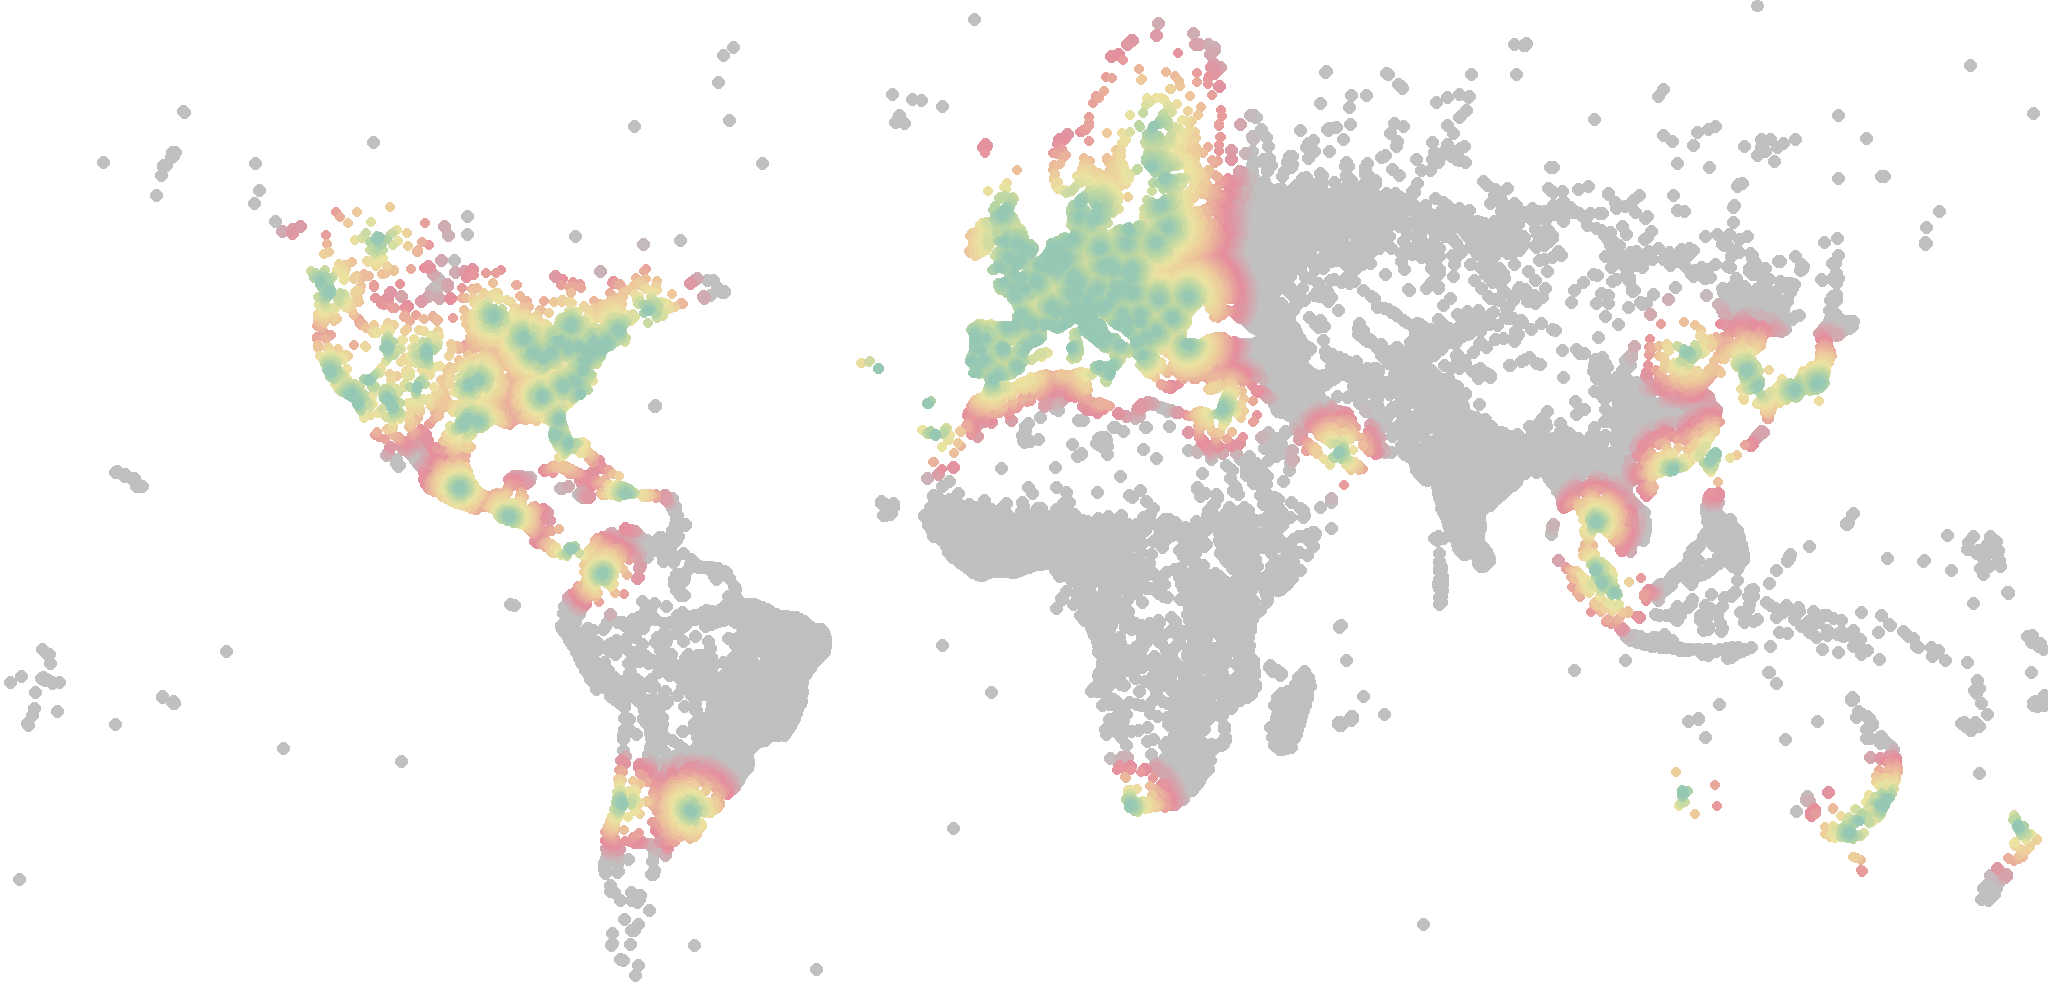
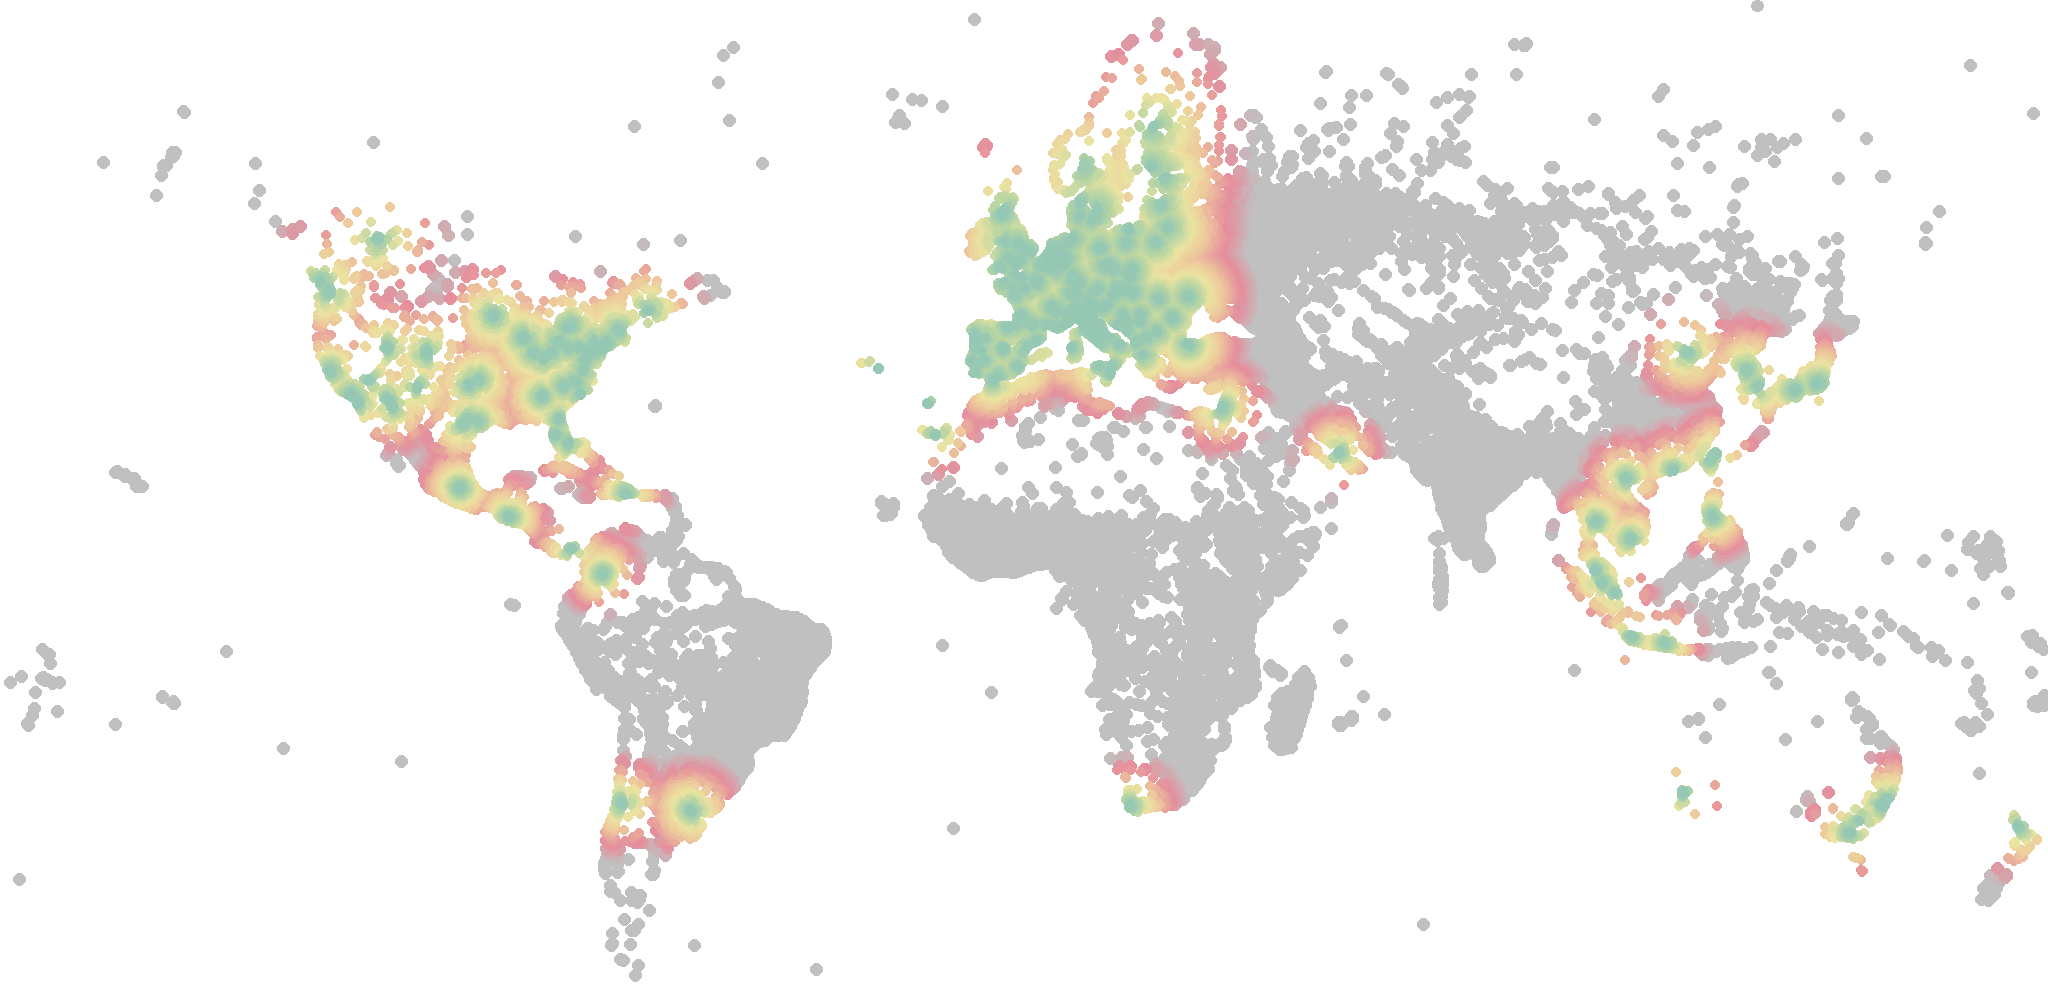
sweep wrap: regenerate desert artifacts on 654 nodes + round-doc summary
Claude-Session: https://claude.ai/code/session_013aVTnLg4ohrBuAwW5GhQkr

Changed region(s): [[0.75, 0.4255, 0.875, 0.5775], [0.7812, 0.6079, 0.8438, 0.6687], [0.5, 0.1216, 0.5625, 0.1824]]

diff --git a/site/whatsnew.html b/site/whatsnew.html
@@ -6,6 +6,6 @@ table{border-collapse:collapse;width:100%;background:#fff;border:2px outset #999
 td{border-top:1px solid #ccc;padding:5px 8px;vertical-align:top}</style></head><body>
 <h1>What's New</h1><p style="text-align:center"><i>from the change log.</i>
 <br><a href="index.html">&larr; back to the map</a></p><hr>
-<table><tr><td><tt>2026-09-10</tt></td><td>greece, turkey, cyprus, ireland: 85 nodes — the sweep&#x27;s biggest haul</td></tr><tr><td><tt>2026-09-10</tt></td><td>nordics: 12 nodes — Finland&#x27;s real support map, and clubs ARE the Nordic backbone</td></tr><tr><td><tt>2026-09-10</tt></td><td>middle east + caucasus: 9 nodes across QA/KW/BH/JO/EG/SA/GE (qoder wave)</td></tr><tr><td><tt>2026-09-10</tt></td><td>India exists on the map: 9 official Moto Guzzi dealers, coast to coast</td></tr><tr><td><tt>2026-09-10</tt></td><td>reverify wave: 57 oldest-verified nodes re-checked (mimo lane, guard-merged)</td></tr><tr><td><tt>2026-09-10</tt></td><td>events layer: rallies and meets as time-bounded nodes</td></tr><tr><td><tt>2026-09-10</tt></td><td>era competence: nodes say which Guzzis they can actually touch</td></tr><tr><td><tt>2026-08-22</tt></td><td>world batch 4: EE gaps + North Africa — 24 nodes, 9 new countries</td></tr><tr><td><tt>2026-08-22</tt></td><td>world batch 3: the Americas — 26 nodes, MX anchor + Central America/Caribbean/Andes</td></tr><tr><td><tt>2026-08-22</tt></td><td>world batch 2: the thin markets — 17 nodes across KR/JP/TW/HK/CN/IN/TH/MY/SG/TR/AE/IL/ZA + region reports</td></tr><tr><td><tt>2026-08-22</tt></td><td>pass 2: MiMo quality sweep applied under guard — 244 street addresses, 242 fact clarifications, 11 dead sites marked unverified</td></tr><tr><td><tt>2026-08-22</tt></td><td>tests like pros: data contracts + build/i18n invariants + SHIPPED export generators, wired into CI</td></tr><tr><td><tt>2026-08-22</tt></td><td>fix: unquote last_verified on the mothership node — build&#x27;s staleness check needs a date, not a string</td></tr><tr><td><tt>2026-08-22</tt></td><td>the mothership: Moto Guzzi factory &amp; museum, Via Parodi 57, Mandello del Lario — ground zero since 15 March 1921</td></tr><tr><td><tt>2026-08-22</tt></td><td>world batch 1: +276 nodes across 28 countries — GSN goes global</td></tr><tr><td><tt>2026-08-22</tt></td><td>remove [removed source] from the network entirely — node, ring link, and all forum-thread citations</td></tr><tr><td><tt>2026-08-20</tt></td><td>Merge main (identity scrub #2); regenerate built site artifacts</td></tr><tr><td><tt>2026-08-18</tt></td><td>revalidate(batch1): nodes aces-erico re-verified 2026-08-18 — 27 bumped, 3 held</td></tr><tr><td><tt>2026-08-18</tt></td><td>scrub maintainer identity from published content (workstream A, #1)</td></tr><tr><td><tt>2026-07-26</tt></td><td>docs: terse methodology + doctrine; strip editorial voice, keep the rules</td></tr><tr><td><tt>2026-07-26</tt></td><td>privacy: move motomotivo coords off the reused Durham home-node value to a generic city point</td></tr><tr><td><tt>2026-07-26</tt></td><td>guzzi-tuner search: +GuzziPower (new) + performance capability on mgclassics/antietam + AF1 UpMap note</td></tr><tr><td><tt>2026-07-26</tt></td><td>franchise layer completion: +36 verified official-locator dealers (86 -&gt; 122 nodes)</td></tr><tr><td><tt>2026-07-26</tt></td><td>official-locator cross-reference (B): stamp 61 confirmed-listed nodes, flag franchise absentees</td></tr><tr><td><tt>2026-07-26</tt></td><td>remove danddcycles — no Moto Guzzi (owner-confirmed)</td></tr><tr><td><tt>2026-07-26</tt></td><td>fix(mountainps): reinstate Moto Guzzi — owner-confirmed 2027 unit in stock</td></tr><tr><td><tt>2026-07-26</tt></td><td>research sweep 2026-07-26: full re-verification of all 87 nodes; 47 vetted corrections applied</td></tr><tr><td><tt>2026-07-26</tt></td><td>nodes: community harvest — 8 forum-vetted nodes + 6 endorsement enrichments (87 total)</td></tr><tr><td><tt>2026-07-26</tt></td><td>nodes: national dealer crawl — 58 verified US nodes across ~30 states</td></tr><tr><td><tt>2026-07-26</tt></td><td>fix: protocol-less node URLs rendered as relative links (GTM/Malibu 404) — normalize data, gate in build, harden client</td></tr><tr><td><tt>2026-07-26</tt></td><td>methodology 1.1.0: community-endorsement observation method</td></tr><tr><td><tt>2026-07-26</tt></td><td>nodes: oldschool (Burlington NC) — surfaced from the exact community thread GSN exists to replace</td></tr><tr><td><tt>2026-07-26</tt></td><td>nodes: vintagemoto (Clayton NC) — owner tip, Triangle-local restoration shop</td></tr><tr><td><tt>2026-07-26</tt></td><td>mobile pass + linked dots + on-map key; add motomotivo (Durham) node</td></tr><tr><td><tt>2026-07-26</tt></td><td>GSN launch: schema, 18 scrubbed nodes, build+CI (schema-as-moderation), site, doctrine, methodology, licenses, privacy</td></tr></table>
+<table><tr><td><tt>2026-09-10</tt></td><td>canada, indonesia, philippines, vietnam, norway, peru, uruguay: 69 more nodes</td></tr><tr><td><tt>2026-09-10</tt></td><td>greece, turkey, cyprus, ireland: 85 nodes — the sweep&#x27;s biggest haul</td></tr><tr><td><tt>2026-09-10</tt></td><td>nordics: 12 nodes — Finland&#x27;s real support map, and clubs ARE the Nordic backbone</td></tr><tr><td><tt>2026-09-10</tt></td><td>middle east + caucasus: 9 nodes across QA/KW/BH/JO/EG/SA/GE (qoder wave)</td></tr><tr><td><tt>2026-09-10</tt></td><td>India exists on the map: 9 official Moto Guzzi dealers, coast to coast</td></tr><tr><td><tt>2026-09-10</tt></td><td>reverify wave: 57 oldest-verified nodes re-checked (mimo lane, guard-merged)</td></tr><tr><td><tt>2026-09-10</tt></td><td>events layer: rallies and meets as time-bounded nodes</td></tr><tr><td><tt>2026-09-10</tt></td><td>era competence: nodes say which Guzzis they can actually touch</td></tr><tr><td><tt>2026-08-22</tt></td><td>world batch 4: EE gaps + North Africa — 24 nodes, 9 new countries</td></tr><tr><td><tt>2026-08-22</tt></td><td>world batch 3: the Americas — 26 nodes, MX anchor + Central America/Caribbean/Andes</td></tr><tr><td><tt>2026-08-22</tt></td><td>world batch 2: the thin markets — 17 nodes across KR/JP/TW/HK/CN/IN/TH/MY/SG/TR/AE/IL/ZA + region reports</td></tr><tr><td><tt>2026-08-22</tt></td><td>pass 2: MiMo quality sweep applied under guard — 244 street addresses, 242 fact clarifications, 11 dead sites marked unverified</td></tr><tr><td><tt>2026-08-22</tt></td><td>tests like pros: data contracts + build/i18n invariants + SHIPPED export generators, wired into CI</td></tr><tr><td><tt>2026-08-22</tt></td><td>fix: unquote last_verified on the mothership node — build&#x27;s staleness check needs a date, not a string</td></tr><tr><td><tt>2026-08-22</tt></td><td>the mothership: Moto Guzzi factory &amp; museum, Via Parodi 57, Mandello del Lario — ground zero since 15 March 1921</td></tr><tr><td><tt>2026-08-22</tt></td><td>world batch 1: +276 nodes across 28 countries — GSN goes global</td></tr><tr><td><tt>2026-08-22</tt></td><td>remove [removed source] from the network entirely — node, ring link, and all forum-thread citations</td></tr><tr><td><tt>2026-08-20</tt></td><td>Merge main (identity scrub #2); regenerate built site artifacts</td></tr><tr><td><tt>2026-08-18</tt></td><td>revalidate(batch1): nodes aces-erico re-verified 2026-08-18 — 27 bumped, 3 held</td></tr><tr><td><tt>2026-08-18</tt></td><td>scrub maintainer identity from published content (workstream A, #1)</td></tr><tr><td><tt>2026-07-26</tt></td><td>docs: terse methodology + doctrine; strip editorial voice, keep the rules</td></tr><tr><td><tt>2026-07-26</tt></td><td>privacy: move motomotivo coords off the reused Durham home-node value to a generic city point</td></tr><tr><td><tt>2026-07-26</tt></td><td>guzzi-tuner search: +GuzziPower (new) + performance capability on mgclassics/antietam + AF1 UpMap note</td></tr><tr><td><tt>2026-07-26</tt></td><td>franchise layer completion: +36 verified official-locator dealers (86 -&gt; 122 nodes)</td></tr><tr><td><tt>2026-07-26</tt></td><td>official-locator cross-reference (B): stamp 61 confirmed-listed nodes, flag franchise absentees</td></tr><tr><td><tt>2026-07-26</tt></td><td>remove danddcycles — no Moto Guzzi (owner-confirmed)</td></tr><tr><td><tt>2026-07-26</tt></td><td>fix(mountainps): reinstate Moto Guzzi — owner-confirmed 2027 unit in stock</td></tr><tr><td><tt>2026-07-26</tt></td><td>research sweep 2026-07-26: full re-verification of all 87 nodes; 47 vetted corrections applied</td></tr><tr><td><tt>2026-07-26</tt></td><td>nodes: community harvest — 8 forum-vetted nodes + 6 endorsement enrichments (87 total)</td></tr><tr><td><tt>2026-07-26</tt></td><td>nodes: national dealer crawl — 58 verified US nodes across ~30 states</td></tr><tr><td><tt>2026-07-26</tt></td><td>fix: protocol-less node URLs rendered as relative links (GTM/Malibu 404) — normalize data, gate in build, harden client</td></tr><tr><td><tt>2026-07-26</tt></td><td>methodology 1.1.0: community-endorsement observation method</td></tr><tr><td><tt>2026-07-26</tt></td><td>nodes: oldschool (Burlington NC) — surfaced from the exact community thread GSN exists to replace</td></tr><tr><td><tt>2026-07-26</tt></td><td>nodes: vintagemoto (Clayton NC) — owner tip, Triangle-local restoration shop</td></tr><tr><td><tt>2026-07-26</tt></td><td>mobile pass + linked dots + on-map key; add motomotivo (Durham) node</td></tr><tr><td><tt>2026-07-26</tt></td><td>GSN launch: schema, 18 scrubbed nodes, build+CI (schema-as-moderation), site, doctrine, methodology, licenses, privacy</td></tr></table>
 <hr><p style="text-align:center;font-size:13px">The Guzzi Support Network · not affiliated with Piaggio Group</p>
 </body></html>

diff --git a/site/desert.html b/site/desert.html
@@ -9,7 +9,7 @@ div.scroll{overflow-x:auto}</style></head><body>
 <h1>The <span style="color:#c8102e">Desert</span> Index</h1>
 <p class="note">How far is America from a Guzzi wrench? Distance from every US town (5,000+ people)
 to the nearest <i>active, full-service</i> GSN node. Straight-line miles — roads are longer.<br>
-Computed 2026-09-10 from 303 full-service nodes. A neutral finding, not a review.
+Computed 2026-09-10 from 310 full-service nodes. A neutral finding, not a review.
 <br>The world heat layer lives on the map itself — tap <b>DESERT</b> (green=good, red=bad, grey=desert; where we have not scraped yet, grey measures our coverage too).<br><a href="index.html">&larr; back to the map</a></p><hr>
 <h2>The ten worst gaps in the lower 48</h2>
 <div class="scroll"><table><tr><th>#</th><th>town</th><th>pop.</th><th>gap</th><th>nearest full-service</th><th>nearest service point (any grade)</th></tr><tr><td>1</td><td>Williston, ND</td><td>26,977</td><td><b>550 mi</b></td><td>Leo&#x27;s South (Lakeville, MN)</td><td>161 mi — Dvorak Motorsports (Bismarck, ND)</td></tr><tr><td>2</td><td>Lewistown, MT</td><td>5,874</td><td><b>464 mi</b></td><td>Eurosports Utah (Sandy, UT)</td><td>93 mi — Paulsens Powersports (Great Falls, MT)</td></tr><tr><td>3</td><td>Miles City, MT</td><td>8,796</td><td><b>438 mi</b></td><td>ACES Motorcycles (Frederick, CO)</td><td>242 mi — Dvorak Motorsports (Bismarck, ND)</td></tr><tr><td>4</td><td>Mandan, ND</td><td>21,382</td><td><b>398 mi</b></td><td>Leo&#x27;s South (Lakeville, MN)</td><td>5 mi — Dvorak Motorsports (Bismarck, ND)</td></tr><tr><td>5</td><td>Anaconda, MT</td><td>9,417</td><td><b>387 mi</b></td><td>Eurosports Utah (Sandy, UT)</td><td>123 mi — Paulsens Powersports (Great Falls, MT)</td></tr><tr><td>6</td><td>Slidell, LA</td><td>27,942</td><td><b>375 mi</b></td><td>MPH Cycles (Hempstead, TX)</td><td>336 mi — Full Throttle (Houston, TX)</td></tr><tr><td>7</td><td>Evergreen, MT</td><td>7,616</td><td><b>364 mi</b></td><td>Optimum Performance Motorsports (Redmond, WA)</td><td>146 mi — Paulsens Powersports (Great Falls, MT)</td></tr><tr><td>8</td><td>Grants Pass, OR</td><td>37,088</td><td><b>362 mi</b></td><td>Spirit Motorcycles San Jose (San Jose, CA)</td><td>299 mi — Elk Grove Powersports, LLC (Elk Grove, CA)</td></tr><tr><td>9</td><td>Ontario, OR</td><td>10,999</td><td><b>352 mi</b></td><td>Eurosports Utah (Sandy, UT)</td><td>248 mi — Eagle Rock Indian Motorcycle (Idaho Motorcycle Co.) (Idaho Falls, ID)</td></tr><tr><td>10</td><td>Grand Island, NE</td><td>51,440</td><td><b>351 mi</b></td><td>ACES Motorcycles (Frederick, CO)</td><td>same</td></tr></table></div>

diff --git a/docs/ROUND-2026-09.md b/docs/ROUND-2026-09.md
@@ -95,3 +95,22 @@ non-issue).
   DMARC p=none monitoring added, end-to-end loop test confirmed in gmail by Nathan.
   REPORT_EMAIL flipped → "✉ report by email" now live in every popup, six locales.
   Item 6 is now fully DONE.
+
+## The 2026-09-10 sweep (post-round, same day — Nathan: "kick off a sweep… add India and any other barren regions, using the farm and yourself")
+
+**465 → 654 nodes in one day.** 20 farm lanes across 4 vendors (zai/kimi/xiaomi/qoder)
+in 5 waves, plus direct API mining by claude. New countries: IN(9) CY(1) QA KW(3) BH JO
+EG SA GE PE(2) UY ID(22) PH(6) VN(3) + first IE node; deepened: TR 1→50, GR 3→35,
+CA 5→35, FI 1→11, NO 1→5, SE 2→3. 57 stalest nodes re-verified (guard-merged; antietam
+site down → unverified). Region reports banked for India-outside-metros, Brazil (API
+returns ZERO official dealers for all Brazil — Italy control 139), Sub-Saharan Africa,
+PE/UY/VE. Key discovery: the Piaggio dealer-locator backend API
+(jhgateway.piaggiogroup.com/.../dealerlocator/v2/<CC>/motoguzzi/stores, GeoJSON) —
+used to mine/cross-check IN/GR/GB-IE/FI/CA and to prove SE/NO/BR/PE/UY/VE/TR run
+importer-side or empty. Every lane result guard-merged: observations preserved
+verbatim, coords/urls frozen, grading audited (6 full-service claims downgraded for
+depth-evidence consistency), duplicates merged, personal contacts excluded, all claims
+spot-checked orthogonally before landing. Farm scars for the ledger: mimo native lane
+broken (key-scope drift, sq #61), kimi 5-hour quota ceiling found mid-wave, one qoder
+lane lost work to an unharvested background workflow (re-dispatched with
+finish-in-session instruction).

diff --git a/docs/desert-index-2026-09.md b/docs/desert-index-2026-09.md
@@ -3,7 +3,7 @@
 **How far is America from a Guzzi wrench?** For every US town with
 5,000+ people, the straight-line distance to the nearest *active,
 full-service* node in the [Guzzi Support Network](https://guzzisupport.network/).
-Computed 2026-09-10 from 303 full-service nodes and 7,557 towns.
+Computed 2026-09-10 from 310 full-service nodes and 7,557 towns.
 
 *A neutral finding, per doctrine: this measures geography, not shops.
 Straight-line miles (roads are longer). A desert in our data is either
